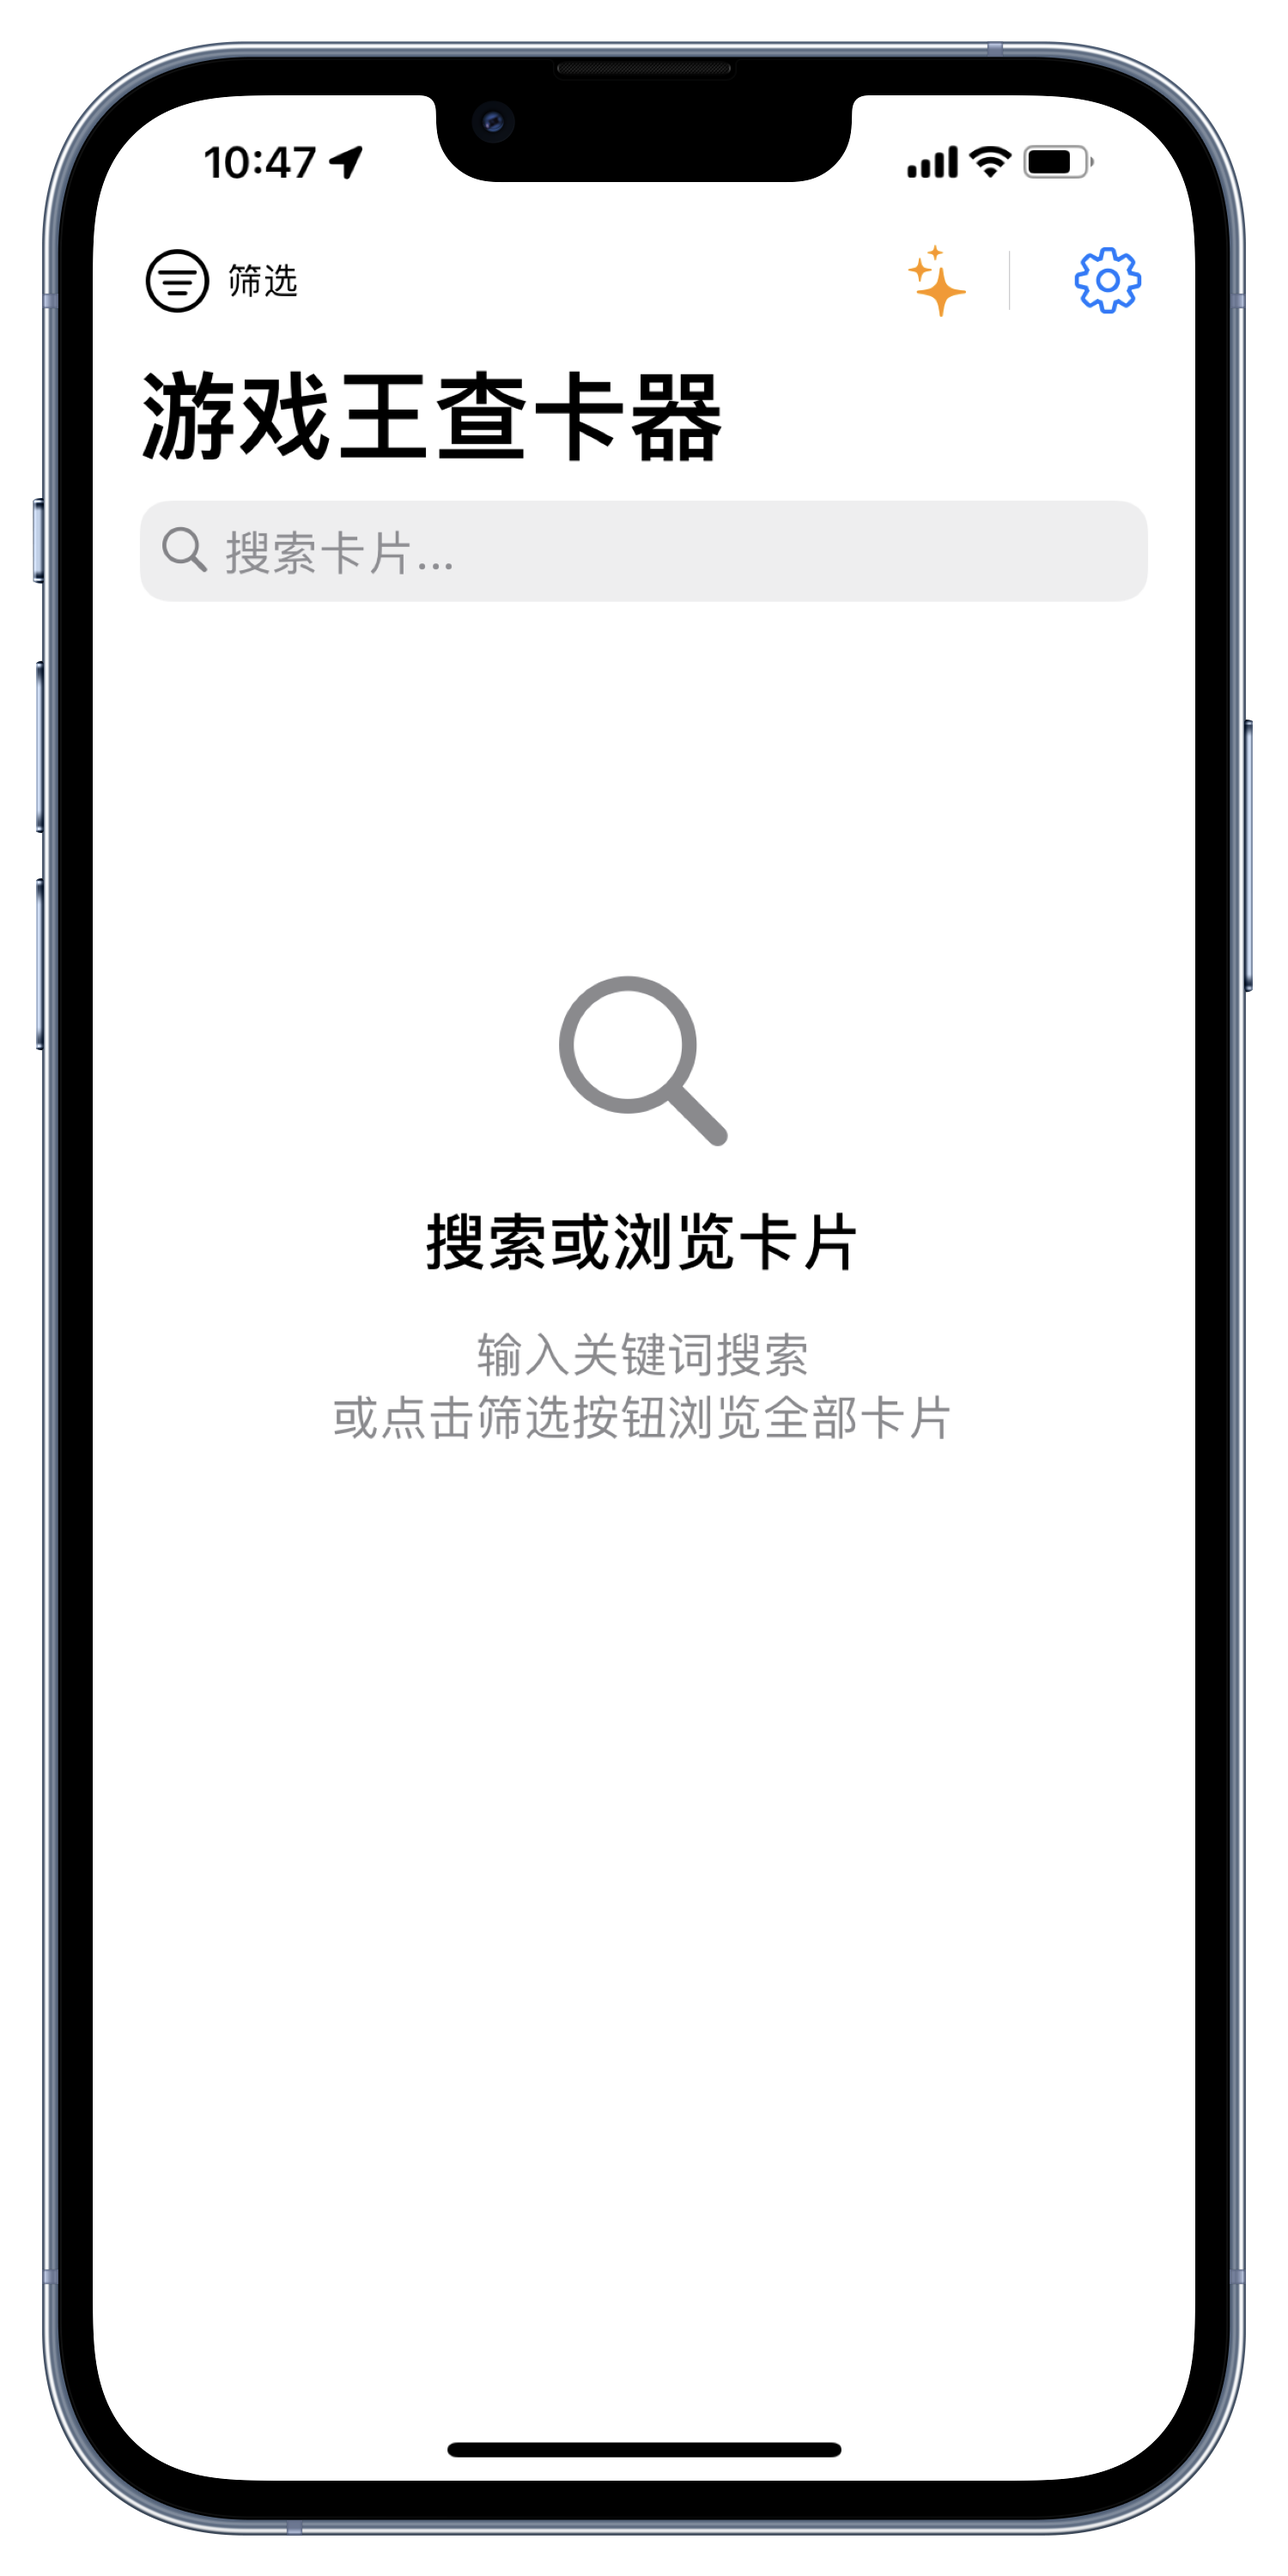
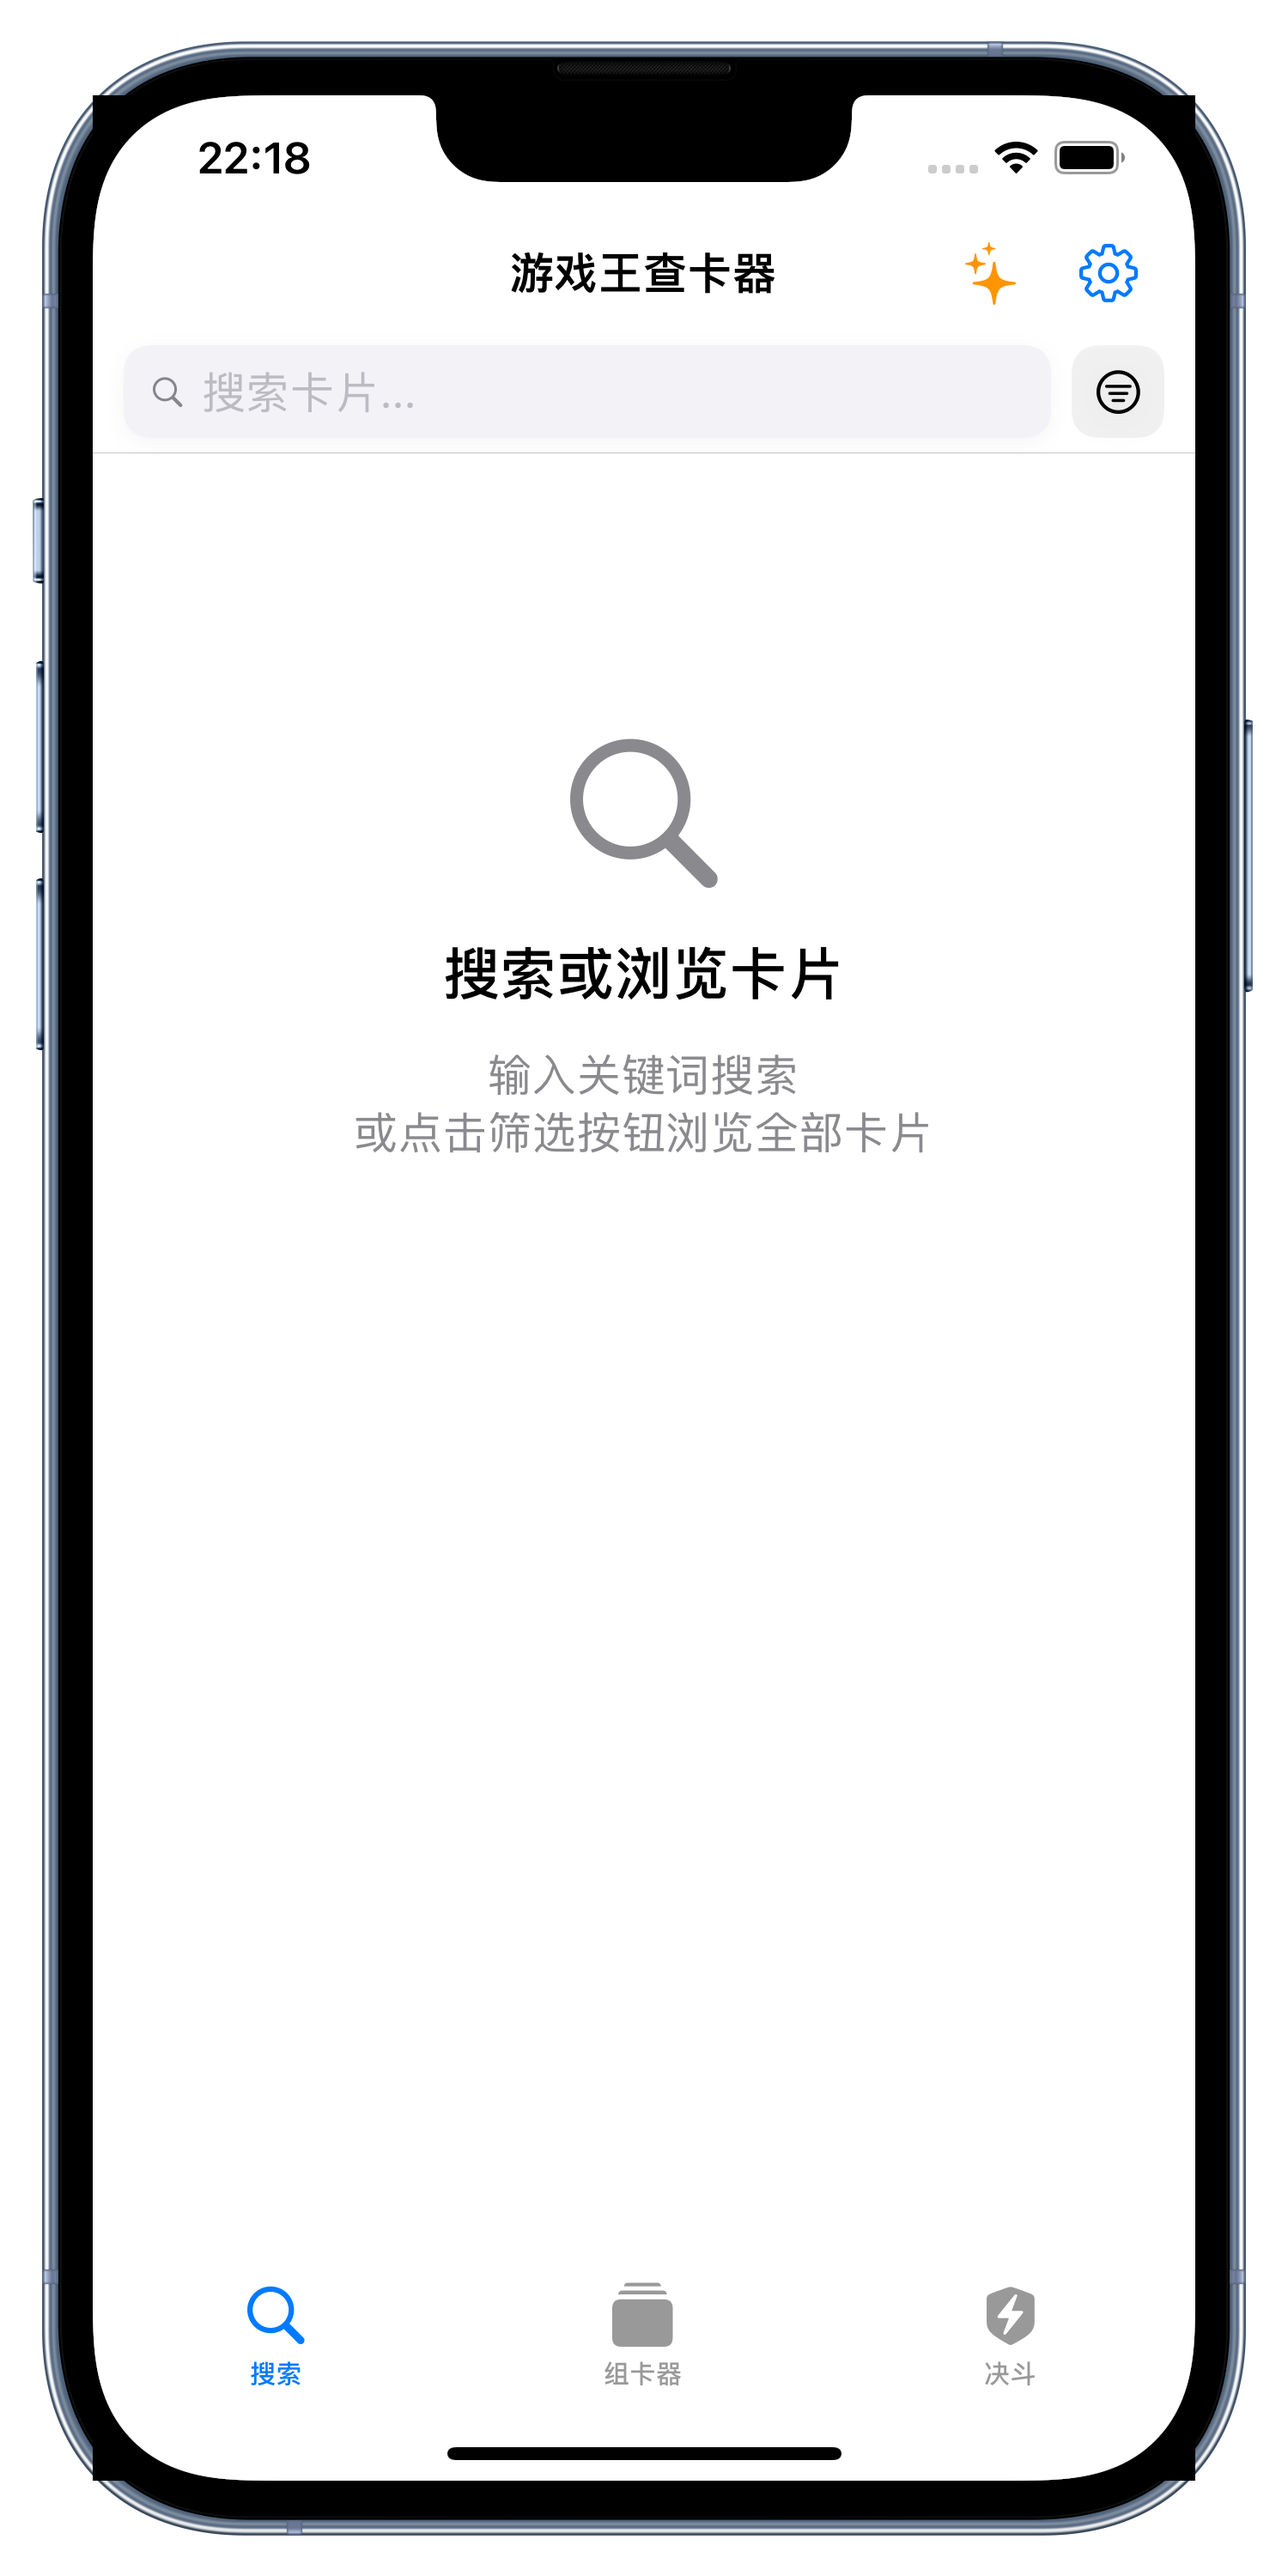
update

diff --git a/src/content/posts/00012 ygocdb-ios.md b/src/content/posts/00012 ygocdb-ios.md
@@ -27,6 +27,8 @@ category: 'iOS'
 ## 下载安装
 **IPA 下载地址**：  
 
+[V3.0 点我下载：约5MB](https://cdntx.moecube.com/ex/koishipro2-hex/release/ygocdb-ios_3.0.ipa)  
+
 [V2.1 点我下载：约5MB](https://cdntx.moecube.com/ex/koishipro2-hex/release/ygocdb-ios_2.1.ipa)  
 
 [V2.0 点我下载：约5MB](https://cdntx.moecube.com/ex/koishipro2-hex/release/ygocdb-ios_2.0.ipa)  
@@ -45,14 +47,20 @@ category: 'iOS'
 
 ## 功能特性
 - 🔍 **全文搜索**：支持中/日/英多语言卡名、密码、效果文本搜索
-- 📚 **文本复制**：支持复制卡片名称、密码、效果文本，卡图保存分享
 - 📜 **搜索历史**：自动保存近 5 条搜索记录，支持一键清空
+- 📚 **文本复制**：支持复制卡片名称、密码、效果文本，卡图保存分享
 - 🎯 **高级筛选**：按卡片类型（怪兽/魔法/陷阱）、种族、属性等筛选
 - ⭐ **先行卡查看**：实时获取最新的先行卡片信息
 - 🖼 **多语言卡图**：支持 YGOPRO/简中/日文/英文卡图切换
-- 📝 **多来源译名**：YGOPRO/简中/Master Duel/NWBBS/CNOCG 译名可选
+- 📝 **多来源名称**：YGOPRO/简中/Master Duel/NWBBS/CNOCG 名称可选
 - ⚡ **自动更新**：支持自动/手动更新策略，可配置更新间隔
 - 📵 **离线支持**：下载后可完全离线使用
+- 🃏 **卡组构建**：支持创建、编辑、从剪贴板导入/导出卡组
+- 📊 **概率计算**：内置起手概率计算器，支持自定义特定手牌组合概率分析
+- ⚖ **Side 策略**：换 Side 策略辅助，记录换备方案
+- 🎲 **模拟抽卡**：卡组试抽功能 (Hand Test)
+- ⚔ **对战模拟**：支持卡组对战模拟，记录主卡组与换 Side 后的表现
+- 🧮 **决斗计算器**：内置 LP 计算、骰子和硬币工具
 
 ## 数据来源
 卡片数据来源于 [百鸽（ygocdb.com）](https://ygocdb.com)  
